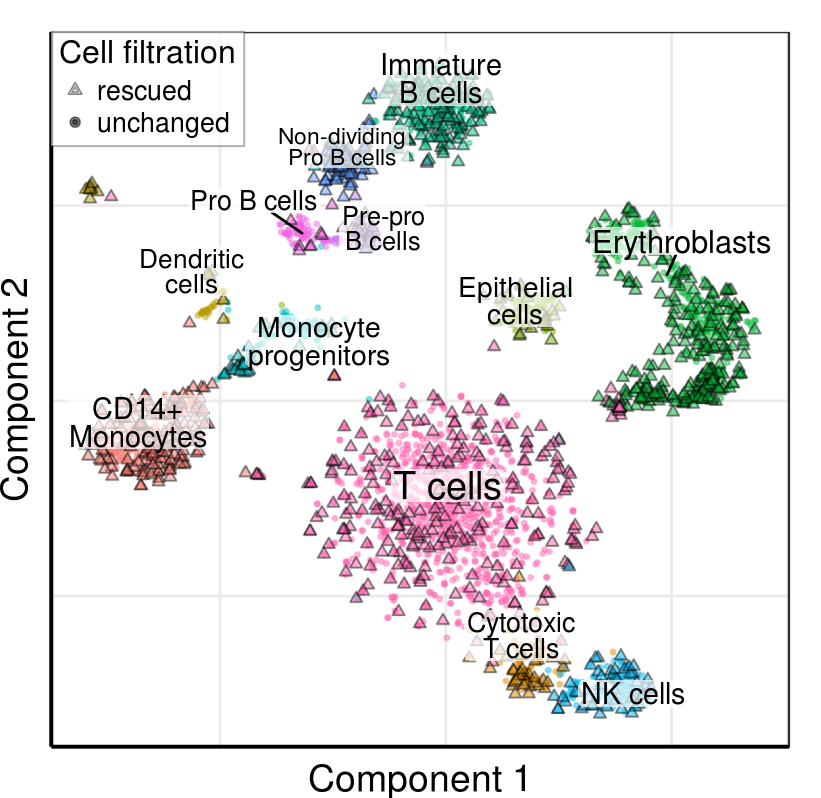
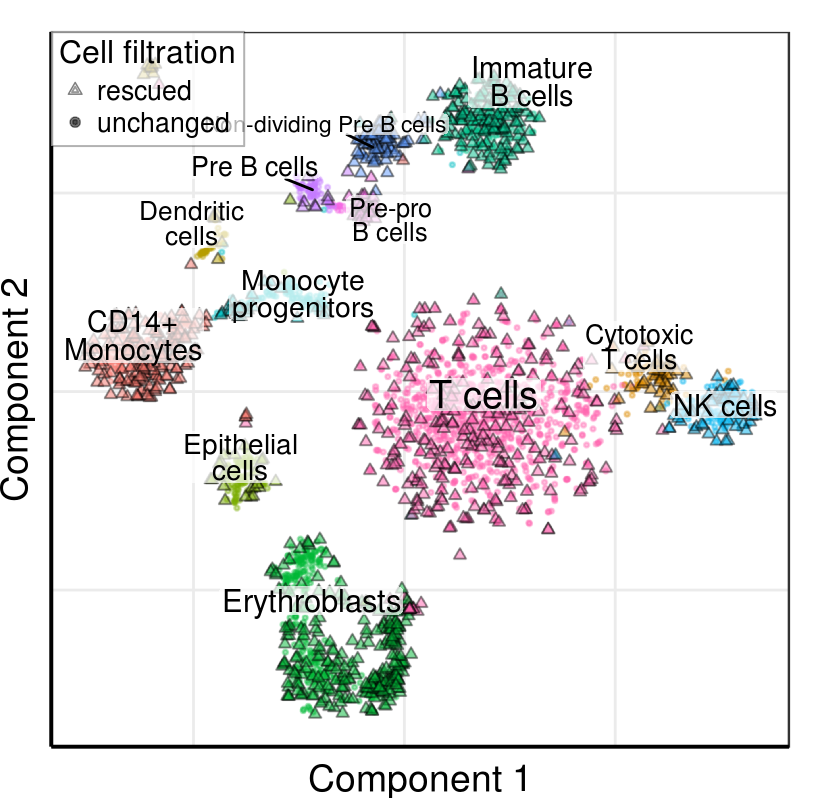
Updated LQ Frozen BMMC

Changed region(s): [[0.0609, 0.0602, 0.944, 0.9023], [0.1523, 0.0602, 0.2132, 0.1203]]

diff --git a/docs/low_quality_cells__validation_bmmc1.html b/docs/low_quality_cells__validation_bmmc1.html
@@ -314,8 +314,26 @@ div.section {
 
 
 <p><strong>Source file:</strong> notebooks/low_quality_cells/validation_bmmc1.Rmd</p>
-<p><strong>Last updated:</strong> 2018-03-09</p>
-<p><strong>Code version:</strong> 47007e4</p>
+<p><strong>Last updated:</strong> 2018-05-29</p>
+<p><strong>Code version:</strong> 33e615d</p>
+<pre class="r"><code>library(ggplot2)
+library(ggrastr)
+library(ggpubr)
+library(dplyr)
+library(parallel)
+library(Seurat)
+library(dropestr)
+library(dropEstAnalysis)
+
+theme_set(theme_base)
+
+set.seed(42)
+kOutputFolder &lt;- &#39;../../output/&#39;
+kDataPath &lt;- &#39;../../data/&#39;
+kEstDataPath &lt;- paste0(kDataPath, &#39;dropest/10x/frozen_bmmc_healthy_donor1/&#39;)
+kAnnotationDataPath &lt;- paste0(kDataPath, &#39;annotation/&#39;)
+kEstFolder &lt;- paste0(kEstDataPath, &#39;est_11_10_umi_quality/&#39;)
+k10xFolder &lt;- paste0(kEstDataPath, &#39;filtered_matrices_mex/hg19/&#39;)</code></pre>
 <div id="read-data" class="section level2">
 <h2>Read data</h2>
 <p><a href="https://support.10xgenomics.com/single-cell-gene-expression/datasets/1.1.0/frozen_bmmc_healthy_donor1">Link to the original dataset</a>.</p>
@@ -377,69 +395,98 @@ gg_tsne &lt;- PlotFiltrationResults(r_rescued, plot_clusters, filtered.cbs=NULL,
 
 gg_tsne</code></pre>
 <p><img src="figure/validation_bmmc1.Rmd/unnamed-chunk-9-1.png" width="410.88" style="display: block; margin: auto;" /></p>
-<pre class="r"><code>(table(clusters_annotated_resc[rescued_cbs]) / 
-  (table(clusters_annotated) + table(clusters_annotated_resc[rescued_cbs]))) %&gt;% 
-  as_tibble() %&gt;% mutate(n = round(100 * n, 1)) %&gt;%
-  `colnames&lt;-`(c(&quot;Cell type&quot;, &quot;Fraction of rescued, %&quot;))</code></pre>
+<div id="number-of-rescued-cells-per-cluster" class="section level3">
+<h3>Number of rescued cells per cluster</h3>
+<pre class="r"><code>rescued_table &lt;- TableOfRescuedCells(clusters_annotated_resc[c(intersect_cbs, rescued_cbs)], 
+                                     rescued_cbs)
+write.csv(rescued_table, paste0(kOutputFolder, &quot;tables/rescued_cbc_bmmc1.csv&quot;), row.names=F)
+rescued_table</code></pre>
 <div class="kable-table">
 <table>
 <thead>
 <tr class="header">
 <th align="left">Cell type</th>
+<th align="right">Total num. of cells</th>
+<th align="right">Num. of rescued</th>
 <th align="right">Fraction of rescued, %</th>
 </tr>
 </thead>
 <tbody>
 <tr class="odd">
 <td align="left">CD14+ Monocytes</td>
-<td align="right">35.3</td>
+<td align="right">305</td>
+<td align="right">164</td>
+<td align="right">53.77</td>
 </tr>
 <tr class="even">
 <td align="left">Cytotoxic T cells</td>
-<td align="right">26.1</td>
+<td align="right">105</td>
+<td align="right">37</td>
+<td align="right">35.24</td>
 </tr>
 <tr class="odd">
 <td align="left">Dendritic cells</td>
-<td align="right">21.3</td>
+<td align="right">90</td>
+<td align="right">16</td>
+<td align="right">17.78</td>
 </tr>
 <tr class="even">
 <td align="left">Epithelial cells</td>
-<td align="right">16.7</td>
+<td align="right">136</td>
+<td align="right">23</td>
+<td align="right">16.91</td>
 </tr>
 <tr class="odd">
 <td align="left">Erythroblasts</td>
-<td align="right">38.0</td>
+<td align="right">509</td>
+<td align="right">263</td>
+<td align="right">51.67</td>
 </tr>
 <tr class="even">
 <td align="left">Immature B cells</td>
-<td align="right">32.8</td>
+<td align="right">277</td>
+<td align="right">133</td>
+<td align="right">48.01</td>
 </tr>
 <tr class="odd">
 <td align="left">Monocyte progenitors</td>
-<td align="right">17.8</td>
+<td align="right">157</td>
+<td align="right">33</td>
+<td align="right">21.02</td>
 </tr>
 <tr class="even">
 <td align="left">NK cells</td>
-<td align="right">21.1</td>
+<td align="right">179</td>
+<td align="right">47</td>
+<td align="right">26.26</td>
 </tr>
 <tr class="odd">
-<td align="left">Non-dividing Pro B cells</td>
-<td align="right">47.4</td>
+<td align="left">Non-dividing Pre B cells</td>
+<td align="right">93</td>
+<td align="right">82</td>
+<td align="right">88.17</td>
 </tr>
 <tr class="even">
-<td align="left">Pre-pro B cells</td>
-<td align="right">32.3</td>
+<td align="left">Pre B cells</td>
+<td align="right">76</td>
+<td align="right">8</td>
+<td align="right">10.53</td>
 </tr>
 <tr class="odd">
-<td align="left">Pro B cells</td>
-<td align="right">9.8</td>
+<td align="left">Pre-pro B cells</td>
+<td align="right">65</td>
+<td align="right">30</td>
+<td align="right">46.15</td>
 </tr>
 <tr class="even">
 <td align="left">T cells</td>
-<td align="right">19.8</td>
+<td align="right">1098</td>
+<td align="right">269</td>
+<td align="right">24.50</td>
 </tr>
 </tbody>
 </table>
+</div>
 </div>
 </div>
 <div id="comparison-of-unchanged-and-rescued-cells" class="section level2">
@@ -564,7 +611,7 @@ gg_cell_number &lt;- PlotCellsNumberLine(Matrix::colSums(holder$cm_raw)) +
                              labels=c(&#39;A&#39;, &#39;&#39;)) +
   theme(plot.margin=margin(1, 1, 1, 1))
 
-ggsave(paste0(kPlotsFolder, &#39;fig_bmmc_filtration.pdf&#39;), gg_fig, width=7.5, height=7)
+ggsave(paste0(kOutputFolder, &#39;figures/fig_bmmc_filtration.pdf&#39;), gg_fig, width=7.5, height=7)
 
 gg_fig</code></pre>
 <p><img src="figure/validation_bmmc1.Rmd/unnamed-chunk-18-1.png" width="720" style="display: block; margin: auto;" /></p>
@@ -611,7 +658,7 @@ gg_fig</code></pre>
 </tr>
 <tr class="even">
 <td>date</td>
-<td align="left">2018-03-09</td>
+<td align="left">2018-05-29</td>
 </tr>
 </tbody>
 </table>
@@ -827,8 +874,8 @@ gg_fig</code></pre>
 <tr class="odd">
 <td>32</td>
 <td align="left">DBI</td>
-<td align="left">0.7</td>
-<td align="left">2017-06-18</td>
+<td align="left">1.0.0</td>
+<td align="left">2018-05-02</td>
 <td align="left">CRAN (R 3.4.1)</td>
 </tr>
 <tr class="even">
@@ -862,9 +909,9 @@ gg_fig</code></pre>
 <tr class="even">
 <td>37</td>
 <td align="left">digest</td>
-<td align="left">0.6.14</td>
-<td align="left">2018-01-14</td>
-<td align="left">cran (<span class="citation">@0.6.14</span>)</td>
+<td align="left">0.6.15</td>
+<td align="left">2018-01-28</td>
+<td align="left">cran (<span class="citation">@0.6.15</span>)</td>
 </tr>
 <tr class="odd">
 <td>38</td>
@@ -898,15 +945,15 @@ gg_fig</code></pre>
 <td>42</td>
 <td align="left">dropEstAnalysis</td>
 <td align="left">0.6.0</td>
-<td align="left">2018-03-09</td>
+<td align="left">2018-05-16</td>
 <td align="left">local (<a href="mailto:VPetukhov/dropEstAnalysis@NA">VPetukhov/dropEstAnalysis@NA</a>)</td>
 </tr>
 <tr class="even">
 <td>43</td>
 <td align="left">dropestr</td>
-<td align="left">0.7.6</td>
-<td align="left">2018-02-26</td>
-<td align="left">local (<span class="citation">@0.7.6</span>)</td>
+<td align="left">0.7.7</td>
+<td align="left">2018-03-17</td>
+<td align="left">local (<span class="citation">@0.7.7</span>)</td>
 </tr>
 <tr class="odd">
 <td>44</td>
@@ -1128,9 +1175,9 @@ gg_fig</code></pre>
 <tr class="even">
 <td>78</td>
 <td align="left">igraph</td>
-<td align="left">1.1.2</td>
-<td align="left">2017-07-21</td>
-<td align="left">CRAN (R 3.4.1)</td>
+<td align="left">1.2.1</td>
+<td align="left">2018-03-10</td>
+<td align="left">cran (<span class="citation">@1.2.1</span>)</td>
 </tr>
 <tr class="odd">
 <td>79</td>
@@ -1177,9 +1224,9 @@ gg_fig</code></pre>
 <tr class="odd">
 <td>85</td>
 <td align="left">knitr</td>
-<td align="left">1.18</td>
-<td align="left">2017-12-27</td>
-<td align="left">cran (<span class="citation">@1.18</span>)</td>
+<td align="left">1.20</td>
+<td align="left">2018-02-20</td>
+<td align="left">cran (<span class="citation">@1.20</span>)</td>
 </tr>
 <tr class="even">
 <td>86</td>
@@ -1353,7 +1400,7 @@ gg_fig</code></pre>
 <td>111</td>
 <td align="left">pagoda2</td>
 <td align="left">0.0.0.9002</td>
-<td align="left">2018-02-27</td>
+<td align="left">2018-04-08</td>
 <td align="left">local (<a href="mailto:hms-dbmi/pagoda2@NA">hms-dbmi/pagoda2@NA</a>)</td>
 </tr>
 <tr class="odd">
@@ -1478,9 +1525,9 @@ gg_fig</code></pre>
 <tr class="even">
 <td>130</td>
 <td align="left">Rcpp</td>
-<td align="left">0.12.15</td>
-<td align="left">2018-01-20</td>
-<td align="left">cran (<span class="citation">@0.12.15</span>)</td>
+<td align="left">0.12.17</td>
+<td align="left">2018-05-18</td>
+<td align="left">cran (<span class="citation">@0.12.17</span>)</td>
 </tr>
 <tr class="odd">
 <td>131</td>
@@ -1513,9 +1560,9 @@ gg_fig</code></pre>
 <tr class="odd">
 <td>135</td>
 <td align="left">rjson</td>
-<td align="left">0.2.15</td>
-<td align="left">2014-11-03</td>
-<td align="left">CRAN (R 3.4.1)</td>
+<td align="left">0.2.19</td>
+<td align="left">2018-05-18</td>
+<td align="left">cran (<span class="citation">@0.2.19</span>)</td>
 </tr>
 <tr class="even">
 <td>136</td>
@@ -1527,8 +1574,8 @@ gg_fig</code></pre>
 <tr class="odd">
 <td>137</td>
 <td align="left">rmarkdown</td>
-<td align="left">1.8</td>
-<td align="left">2017-11-17</td>
+<td align="left">1.9</td>
+<td align="left">2018-03-01</td>
 <td align="left">CRAN (R 3.4.1)</td>
 </tr>
 <tr class="even">
@@ -1660,16 +1707,16 @@ gg_fig</code></pre>
 <tr class="even">
 <td>159</td>
 <td align="left">stringi</td>
-<td align="left">1.1.6</td>
-<td align="left">2017-11-17</td>
-<td align="left">CRAN (R 3.4.1)</td>
+<td align="left">1.1.7</td>
+<td align="left">2018-03-12</td>
+<td align="left">cran (<span class="citation">@1.1.7</span>)</td>
 </tr>
 <tr class="odd">
 <td>160</td>
 <td align="left">stringr</td>
-<td align="left">1.2.0</td>
-<td align="left">2017-02-18</td>
-<td align="left">CRAN (R 3.4.1)</td>
+<td align="left">1.3.0</td>
+<td align="left">2018-02-19</td>
+<td align="left">cran (<span class="citation">@1.3.0</span>)</td>
 </tr>
 <tr class="even">
 <td>161</td>
@@ -1751,9 +1798,9 @@ gg_fig</code></pre>
 <tr class="odd">
 <td>174</td>
 <td align="left">withr</td>
-<td align="left">2.1.1</td>
-<td align="left">2017-12-19</td>
-<td align="left">cran (<span class="citation">@2.1.1</span>)</td>
+<td align="left">2.1.2</td>
+<td align="left">2018-03-15</td>
+<td align="left">cran (<span class="citation">@2.1.2</span>)</td>
 </tr>
 <tr class="even">
 <td>175</td>
@@ -1765,9 +1812,9 @@ gg_fig</code></pre>
 <tr class="odd">
 <td>176</td>
 <td align="left">yaml</td>
-<td align="left">2.1.16</td>
-<td align="left">2017-12-12</td>
-<td align="left">CRAN (R 3.4.1)</td>
+<td align="left">2.1.18</td>
+<td align="left">2018-03-08</td>
+<td align="left">cran (<span class="citation">@2.1.18</span>)</td>
 </tr>
 </tbody>
 </table>

diff --git a/docs/index.html b/docs/index.html
@@ -325,21 +325,21 @@ div.section {
 <div id="main-tables" class="section level3">
 <h3>Main tables</h3>
 <ol style="list-style-type: decimal">
-<li>Table 1. Analysis of merge targets on human/mouse mixture datasets.</li>
-<li>Table 2. 5-fold CV results (mean ± sd).</li>
+<li>Table 1. Analysis of merge targets on human/mouse mixture datasets</li>
+<li>Table 2. 5-fold CV results (mean ± sd)</li>
 </ol>
 </div>
 <div id="supplementary-tables" class="section level3">
 <h3>Supplementary tables</h3>
 <ol style="list-style-type: decimal">
-<li>Table S1. Gene markers, used for annotation of the 10x Frozen BMMCs.</li>
-<li>Table S2. Gene markers, used for annotation of the 10x 8k PBMCs dataset.</li>
-<li>Table S3. Gene markers, used for annotation of the inDrop mouse BMCs dataset.</li>
-<li>Table S4. Fraction of rescued cells for the 10x Frozen BMMCs dataset.</li>
-<li>Table S5. Fraction of rescued cells for the 10x 8k PMMCs dataset.</li>
-<li>Table S6. Fraction of rescued cells for the inDrop mouse PCs dataset.</li>
-<li>Table S7. Fraction of rescued cells for the inDrop mouse BMCs dataset.</li>
-<li>Table S8. Runtimes of dropEst pipeline.
+<li><a href="annotation__annotation_bmmc1.html#all_markers">Table S1. Gene markers, used for annotation of the 10x Frozen BMMCs</a></li>
+<li><a href="annotation__annotation_pbmc8k.html#all_markers">Table S2. Gene markers, used for annotation of the 10x 8k PBMCs dataset</a></li>
+<li><a href="annotation__annotation_bmc.html#cell_type_markers">Table S3. Gene markers, used for annotation of the inDrop mouse BMCs dataset</a></li>
+<li><a href="low_quality_cells__validation_bmmc1.html#number_of_rescued_cells_per_cluster">Table S4. Fraction of rescued cells for the 10x Frozen BMMCs dataset</a></li>
+<li><a href="low_quality_cells__validation_pbmc8k.html#number_of_rescued_cells_per_cluster">Table S5. Fraction of rescued cells for the 10x 8k PMMCs dataset</a></li>
+<li>Table S6. Fraction of rescued cells for the inDrop mouse PCs dataset</li>
+<li>Table S7. Fraction of rescued cells for the inDrop mouse BMCs dataset</li>
+<li>Table S8. Runtimes of dropEst pipeline
 <ul>
 <li>inDrop Mouse BMCs</li>
 <li>inDrop Mouse ESCs</li>
